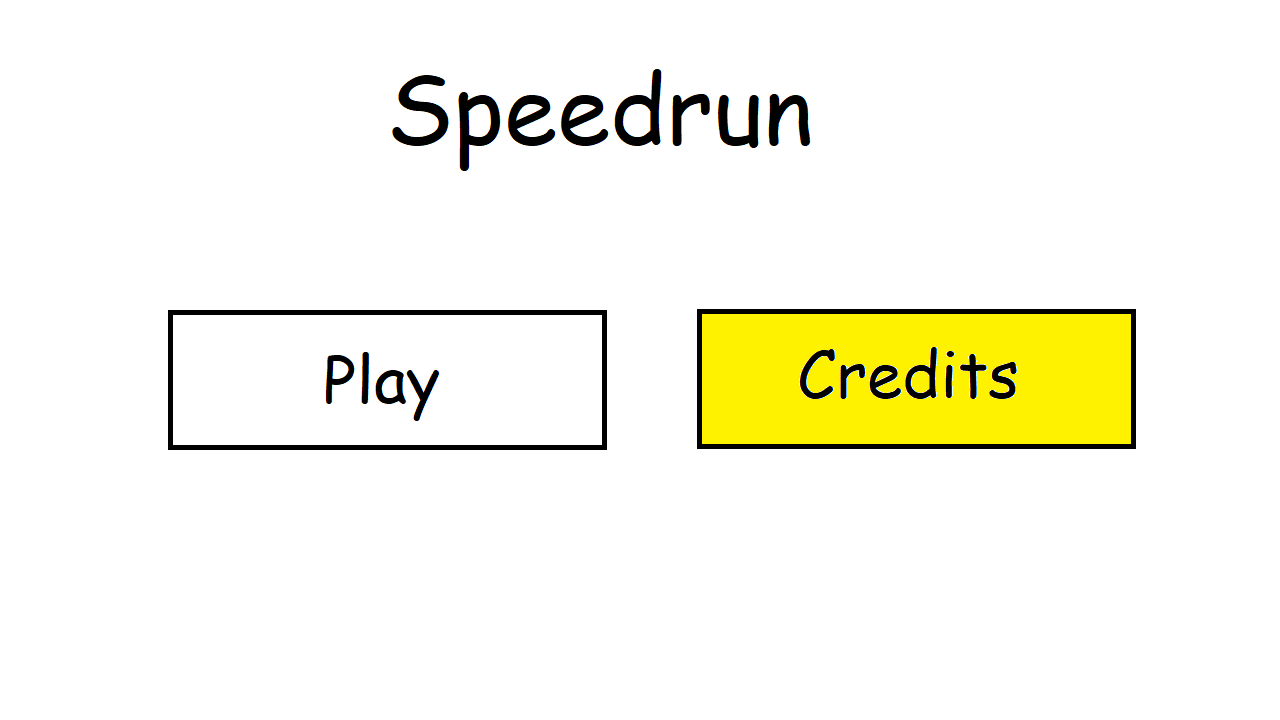
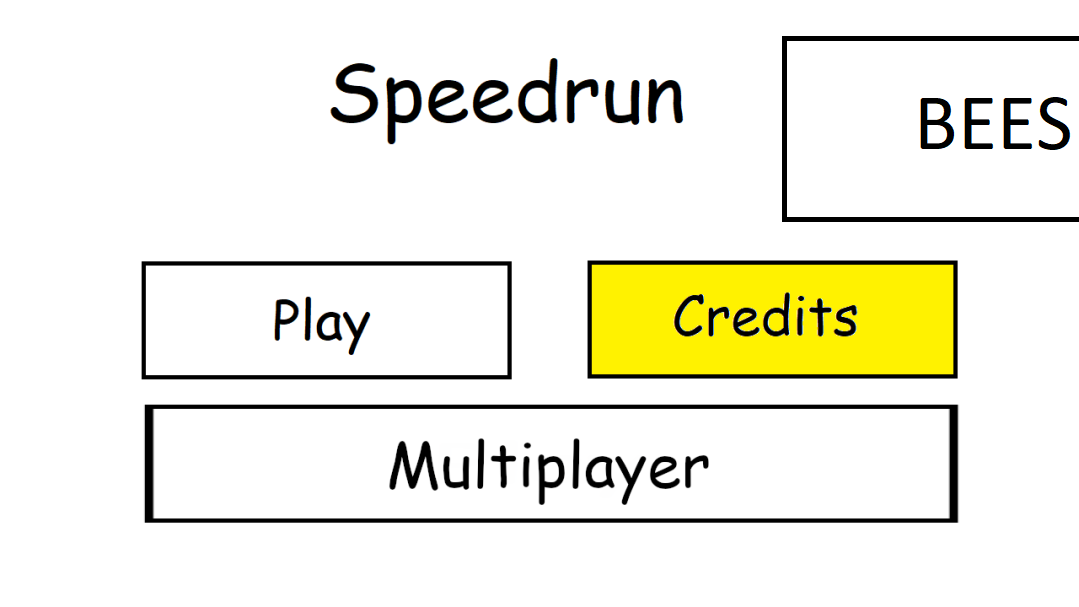
Take #2 on trying to add new menu to new gameplay

diff --git a/src/main.cpp b/src/main.cpp
@@ -10,7 +10,7 @@
 #include "Player.h"
 
 #define CREDIT_SIZE 10
-#define MENU_SIZE 2
+#define MENU_SIZE 4
 
 constexpr int SCREEN_WIDTH = 1280;
 constexpr int SCREEN_HEIGHT = 720;
@@ -334,6 +334,13 @@ void runGame()
 	}
 }
 
+void runMultiTestClient()
+{
+	
+	
+	
+}
+
 void runMenu()
 {
 	SDL_Event e;
@@ -344,6 +351,8 @@ void runMenu()
 	Image *menu[MENU_SIZE] = {
 		loadImage("../res/play.png", 1280, 720),
 		loadImage("../res/creds.png", 1280, 720),
+		loadImage("../res/mult.png", 1280, 720),
+		loadImage("../res/bees.png", 1280, 720)
 	};
 
 	while (gameon)
@@ -364,19 +373,43 @@ void runMenu()
 			{
 				runGame();
 			}
-			if (keystate[SDL_SCANCODE_RETURN] && menuPos == 1)
+			else if (keystate[SDL_SCANCODE_RETURN] && menuPos == 1)
 			{
 				before = SDL_GetTicks();
 				runCredits();
 			}
-			if (keystate[SDL_SCANCODE_A] && menuPos == 1)
+			else if(keystate[SDL_SCANCODE_RETURN] && menuPos == 2)
+			{
+				runMultiTestClient();
+			}
+			else if(keystate[SDL_SCANCODE_RETURN] && menuPos == 3)
+			{
+				//put bees
+			}
+			else if (keystate[SDL_SCANCODE_A] && menuPos == 1)
 			{
 				//can go left
 				menuPos = 0;
 			}
-			if (keystate[SDL_SCANCODE_D] && menuPos == 0)
+			else if (keystate[SDL_SCANCODE_D] && menuPos == 0)
 			{
 				//can go right
+				menuPos = 1;
+			}
+			else if(keystate[SDL_SCANCODE_W] && menuPos == 2)
+			{
+				menuPos = 0;
+			}
+			else if(keystate[SDL_SCANCODE_W] && menuPos == 1)
+			{
+				menuPos = 3;
+			}
+			else if(keystate[SDL_SCANCODE_S] && (menuPos == 0 || menuPos == 1))
+			{
+				menuPos = 2;
+			}
+			else if(keystate[SDL_SCANCODE_S] && menuPos == 3)
+			{
 				menuPos = 1;
 			}
 
